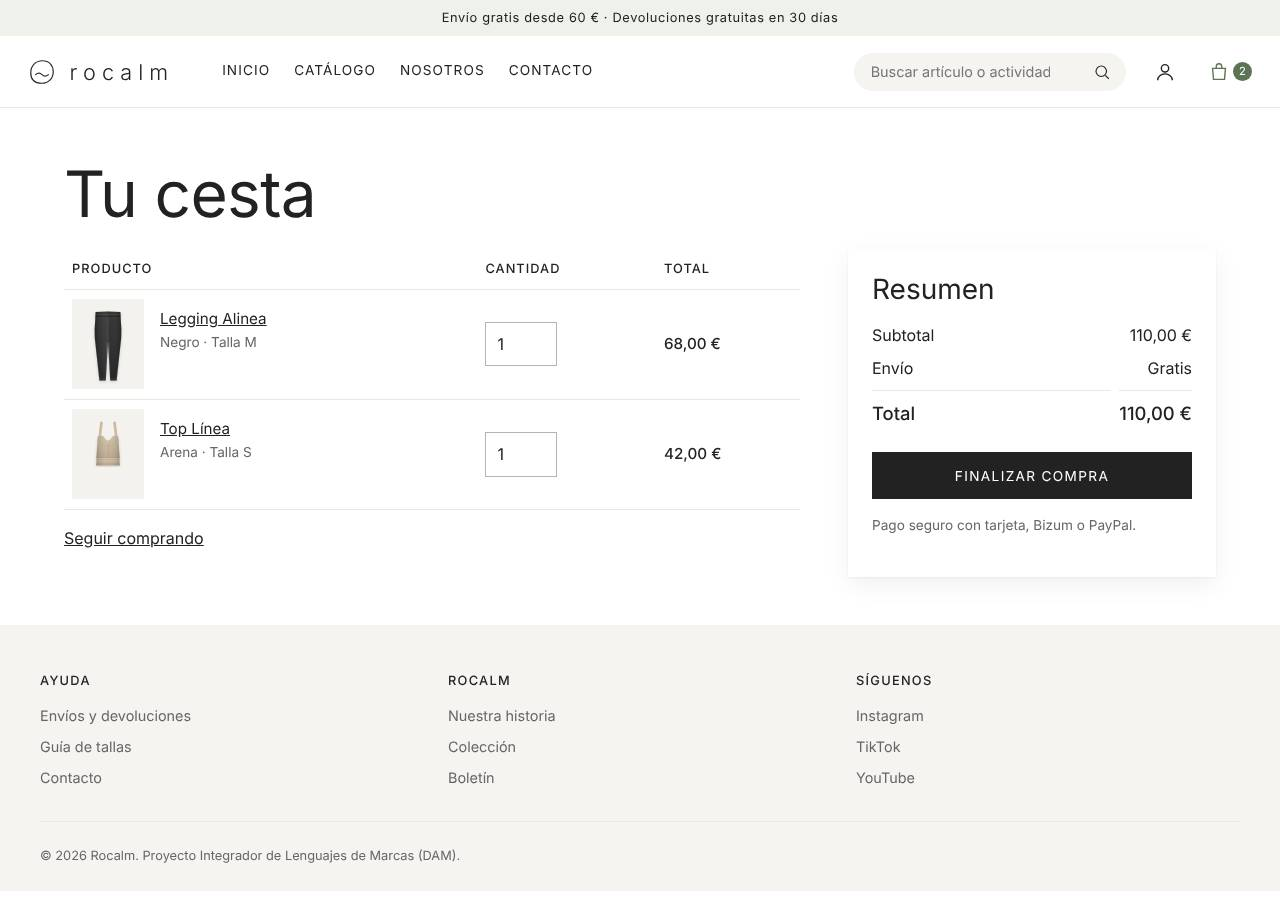
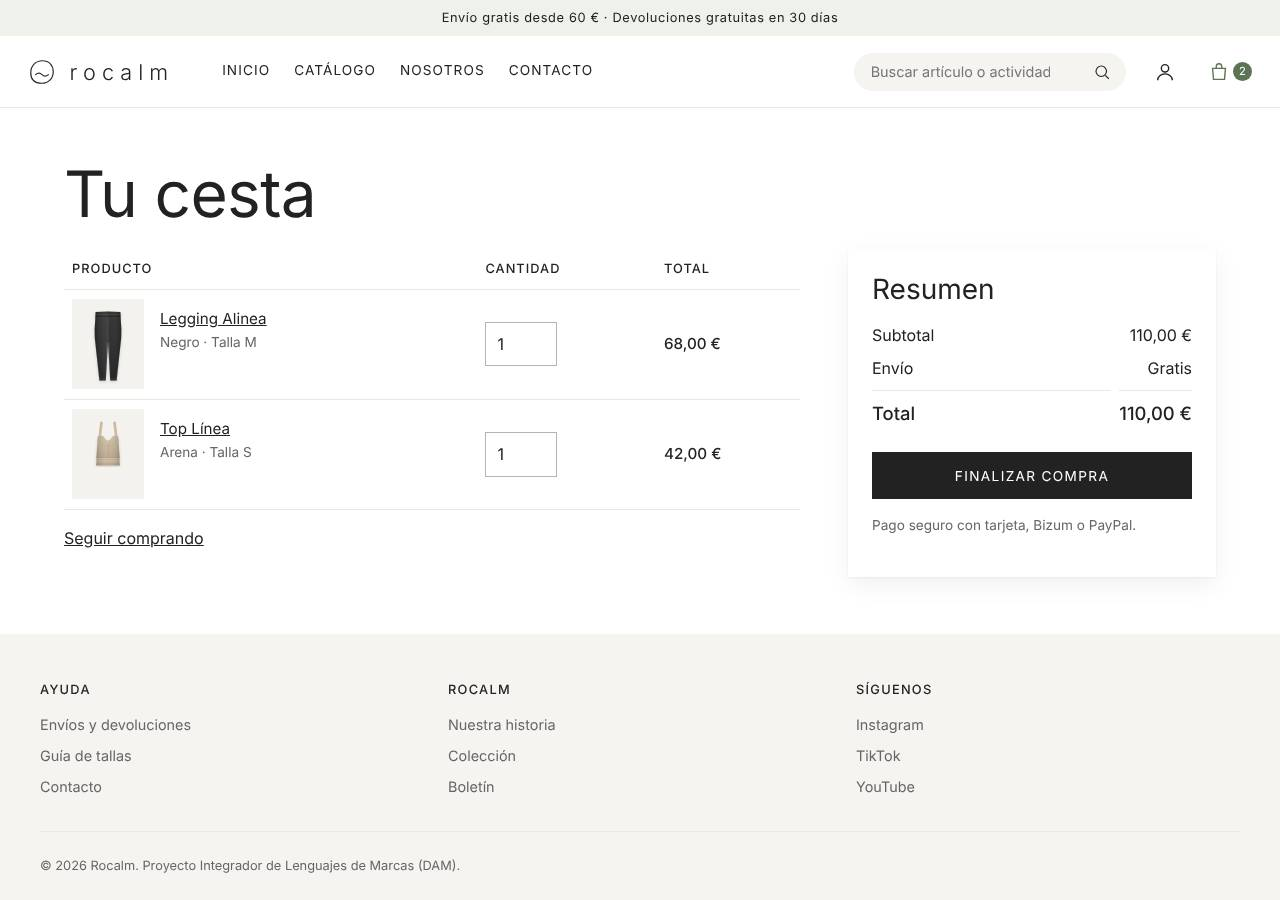
Pie siempre abajo y mensaje cuando el filtro no tiene resultados

diff --git a/css/estilos.css b/css/estilos.css
@@ -70,7 +70,12 @@
   box-sizing: border-box;
 }
 
+/* El body es una columna flexible de al menos la altura de la pantalla:
+   main crece (flex: 1) y empuja el pie hasta abajo aunque haya poco contenido */
 body {
+  display: flex;
+  flex-direction: column;
+  min-height: 100vh;
   margin: 0;
   font-family: var(--fuente);
   font-size: 1rem;
@@ -202,6 +207,8 @@ body > header nav a[aria-current="page"] {
 
 /* ---------- 6. Contenedor principal ---------- */
 main {
+  flex: 1 0 auto;
+  width: 100%;
   max-width: var(--ancho-max);
   margin: 0 auto;
   padding: var(--espacio-m) var(--espacio-s) var(--espacio-l);
@@ -1086,6 +1093,28 @@ main:has(#act-yoga:checked) .tarjeta:not([data-actividad="yoga"]),
 main:has(#act-pilates:checked) .rejilla:not(:has([data-actividad="pilates"])),
 main:has(#act-yoga:checked) .rejilla:not(:has([data-actividad="yoga"])) {
   display: none;
+}
+
+/* Mensaje sin resultados: oculto por defecto.
+   La única combinación sin productos es Accesorios + Yoga. */
+.sin-resultados {
+  display: none;
+  padding: var(--espacio-l) var(--espacio-m);
+  text-align: center;
+  color: var(--color-texto-suave);
+  background-color: var(--color-arena);
+}
+
+.sin-resultados label {
+  display: block;
+  margin-top: var(--espacio-s);
+  color: var(--color-texto);
+  text-decoration: underline;
+  cursor: pointer;
+}
+
+main:has(#filtro-accesorios:checked):has(#act-yoga:checked) .sin-resultados {
+  display: block;
 }
 
 .filtros fieldset + fieldset {

diff --git a/catalogo.html b/catalogo.html
@@ -91,6 +91,12 @@
       </fieldset>
     </div>
 
+    <!-- Solo se muestra cuando el filtro no deja ningún producto (ver CSS 15m2) -->
+    <p class="sin-resultados">
+      No hay prendas con esta combinación de filtros.
+      <label for="act-todas">Ver todas las actividades</label>
+    </p>
+
     <section class="rejilla" id="leggings">
       <h2>Leggings</h2>
 
